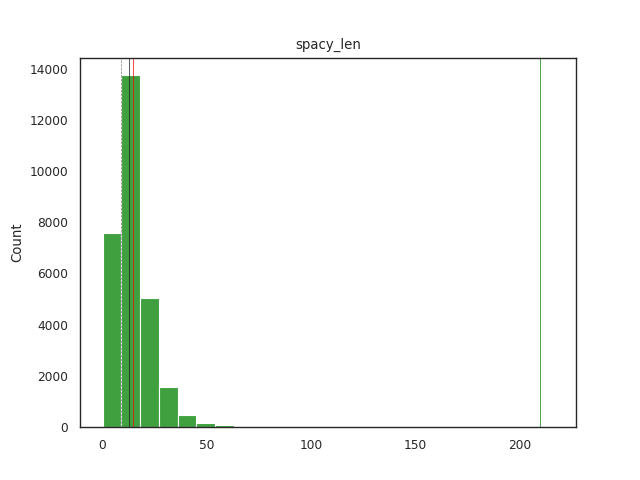
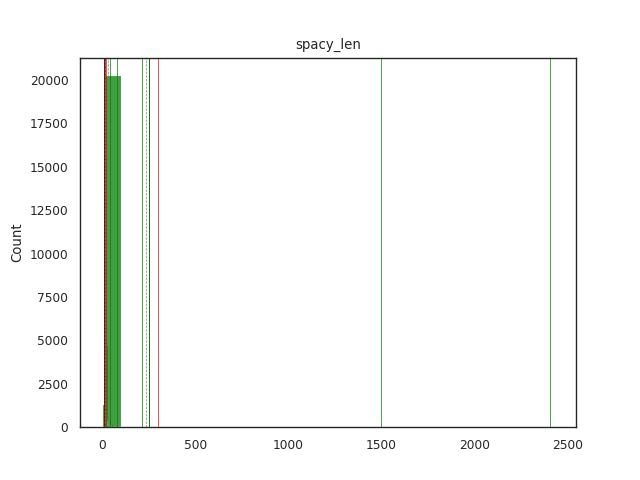
update all.

diff --git a/generate_plot.py b/generate_plot.py
@@ -278,7 +278,7 @@ if __name__ == "__main__":
         cls_names = ["ref", "sum"]
 
         for dataset in datasets:
-            sts = get_lens(dataset, args.ds[1], args.tm[0], args.p[0])
+            sts = get_lens(dataset, args.ds[1], args.tm[0], args.p)
             cls_sts.append(sts.src.lens)
             cls_sts.append(sts.tg.lens)
 
@@ -299,7 +299,7 @@ if __name__ == "__main__":
         cls_names = ["mean", "max", "min"]
 
         for dataset in datasets:
-            sts = get_simi(dataset, args.ds[1], args.p[0])
+            sts = get_simi(dataset, args.ds[1], args.p)
             cls_sts.append(sts.mean)
             cls_sts.append(sts.max)
             cls_sts.append(sts.min)

diff --git a/generate_stats.py b/generate_stats.py
@@ -16,8 +16,8 @@ if __name__ == "__main__":
 
     if args.sts[0] == "len":
 
-        get_print_lens(args.ds[0], args.ds[1], args.tm[0], p=args.p[0])
+        get_print_lens(args.ds[0], args.ds[1], args.tm[0], p=args.p)
 
     if args.sts[0] == "simi":
-        get_print_simi(args.ds[0], args.ds[1], p=args.p[0])
+        get_print_simi(args.ds[0], args.ds[1], p=args.p)
        

diff --git a/LoadData.py b/LoadData.py
@@ -19,7 +19,7 @@ def get_args():
     #     "--sf", nargs=1, type=str, help="if save the figure: 1, otherwise: 0"
     # )
     parser.add_argument(
-        "--p", nargs=1, type=float, const=1, help="proportion of samples"
+        "--p", nargs="?", type=float, const=1, help="proportion of samples"
     )
 
     args = parser.parse_args()
